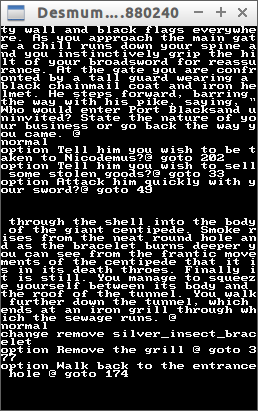
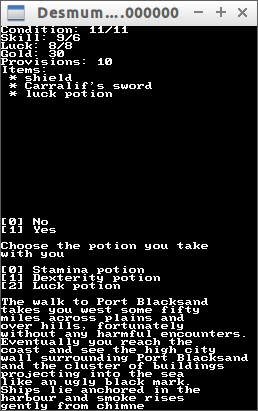
Works ok

diff --git a/Nds/source/ndsgamedialog.cpp b/Nds/source/ndsgamedialog.cpp
@@ -85,7 +85,7 @@ void NdsGameDialog::CharacterChanged(const Character &character)
     {
       if (static_cast<int>(item) < 100)
       {
-        std::cout << ToPrettyStr(item) << std::endl;
+        std::cout << " * " << ToPrettyStr(item) << std::endl;
       }
     }
   }
@@ -113,15 +113,20 @@ Option NdsGameDialog::RequestOption(const std::vector<Option>& options)
 
   while(1)
   {
-    swiWaitForVBlank();
+    ProcessEvents();
 
     if (m_key_pressed != -1)
     {
       int key_pressed = m_key_pressed;
-      assert(key_pressed >= 0);
-      assert(key_pressed < static_cast<int>(options.size()));
-      m_key_pressed = -1;
-      return options[key_pressed];
+      if (key_pressed >= 0 && key_pressed < static_cast<int>(options.size()))
+      {
+        m_key_pressed = -1;
+        return options[key_pressed];
+      }
+      else
+      {
+        m_key_pressed = -1;
+      }
     }
   }
 }
@@ -133,7 +138,7 @@ void NdsGameDialog::ShowText(const std::string& text)
   consoleSelect(&m_screen_bottom);
 
   const int n_chars{22};
-  const double wait_character_msec{0.01};
+  const double wait_character_msec{0.001};
   int pos = 0;
   for (const char c: text)
   {
@@ -174,9 +179,21 @@ void NdsGameDialog::ProcessEvents()
 {
   if (m_verbose) { std::cout << __func__ << std::endl; }
 
+  scanKeys(); //Don't forget!
+  const int keys_down = keysDown();
+  if (keys_down)
+  {
+    if (     keys_down & KEY_UP   ) { m_key_pressed = 0; }
+    else if (keys_down & KEY_RIGHT) { m_key_pressed = 1; }
+    else if (keys_down & KEY_DOWN ) { m_key_pressed = 2; }
+    else if (keys_down & KEY_LEFT ) { m_key_pressed = 3; }
+    else if (keys_down & KEY_B    ) { m_key_pressed = 4; }
+    else if (keys_down & KEY_A    ) { m_key_pressed = 5; }
+  }
+
   swiWaitForVBlank();
 
-  m_key_pressed = 0;
+
 }
 
 
